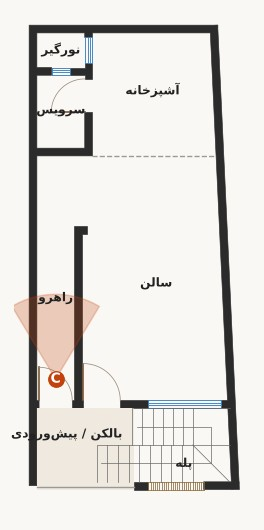
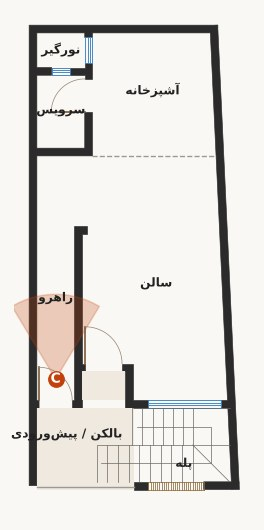
Karbala 5.70: living door in 1 m niche, black metal bar gate, warm cream stone
Claude-Session: https://claude.ai/code/session_0113K5N22RNaozfHWJmS9D7A

Changed region(s): [[0.3939, 0.6642, 0.5152, 0.7849], [0.303, 0.6038, 0.3333, 0.7849], [0.4242, 0.634, 0.4545, 0.6642]]

diff --git a/karbala-570/index.html b/karbala-570/index.html
@@ -182,42 +182,42 @@ fa:{dir:'rtl',name:'فارسی',brand:'ArchTverse · کربلا',title:'خانه
  nav:{facts:'در یک نگاه',plans:'پلانها',design:'زبان طراحی',views:'فضاهای داخلی',facade:'نما',model:'مدل سهبعدی'},
  facts_t:'پروژه در یک نگاه',facts:[['۵٫۷۰ × ۱۲٫۸۴','ابعاد زمین بیرونبهبیرون (متر)'],['۳ طبقه','همکف + طبقهٔ اول و دوم تیپ'],['۳۰۰ + ۲۰','کف تا زیر سقف + بتن سقف (سانتیمتر)'],['۲۱ سانت','ضخامت دیوارها (برداشت ۲۰ تا ۲۲)'],['۱ نما','فقط جبههٔ جلو؛ سمت چپ بدون همسایه'],['۱۷ پله','پلهٔ U شکل مرمر تا بام، با خرپشته']],
  plans_t:'پلانها',plans_s:'طبقه را انتخاب کنید و روی نقطههای دید بزنید.',pg:'همکف',p1:'طبقهٔ اول و دوم (تیپ)',
- pgL:['ورودی نیمهباز با درِ چوبی و دو درِ کنار هم: راهرو و سالن','پلهٔ مرمر کنار نما با میلههای برنزی یکسره تا بام','سرویس زیر پله','راهرو ۱۰۲ سانتی که در انتها به سالن میچرخد','آشپزخانه، سرویس ۱۳۰ × ۱۹۸ و نورگیر ۱۳۰ × ۹۴ در عقب'],
- p1L:['بالکن / پیشورودی نیمهباز ۲۶۴ × ۲۲۱ با نردهٔ شیشهای ۱۱۰','پنجرهٔ ۲ متری سالن رو به چاه پله','سالن با دیوار تلویزیون روی دیوار همسایه','آشپزخانهٔ L شکل با سرامیک تا سقف','درها ۲۸۰؛ پنجرههای داخلی از ۹۰ تا سقف'],
+ pgL:['ورودی نیمهباز با درِ فلزی مشکی نردهای؛ درِ راهرو و درِ سالن که ۱ متر عقبتر در یک تورفتگی است','پلهٔ مرمر کنار نما با میلههای برنزی یکسره تا بام','سرویس زیر پله','راهرو ۱۰۲ سانتی که در انتها به سالن میچرخد','آشپزخانه، سرویس ۱۳۰ × ۱۹۸ و نورگیر ۱۳۰ × ۹۴ در عقب'],
+ p1L:['بالکن / پیشورودی نیمهباز ۲۶۴ × ۲۲۱ با نردهٔ شیشهای ۱۱۰؛ درِ سالن ۱ متر عقبتر در تورفتگی','پنجرهٔ ۲ متری سالن رو به چاه پله','سالن با دیوار تلویزیون روی دیوار همسایه','آشپزخانهٔ L شکل با سرامیک تا سقف','درها ۲۸۰؛ پنجرههای داخلی از ۹۰ تا سقف'],
  legend:'نقطههای چشمکزن جای دید هر فضاست و مخروط، جهت نگاه را نشان میدهد؛ روی نقطه بزنید تا وارد همان زاویه شوید.',viewsOn:'فضاهای این طبقه:',
  design_t:'زبان طراحی: نئوکلاسیک گرم',design:[['فضاهای داخلی','دیوار سفید گرم و گریج، قاببندی ظریف فقط روی دیوارهای تأکیدی، کف سرامیک طرح مرمر ۶۰ × ۶۰'],['سقفها','سالن: سقف کاذب مستطیلی با گلویی و نور مخفی. آشپزخانه: سقف ساده با باکس جداکننده. سرویس: ۲۷۰'],['فضاهای نیمهباز','ورودی، پله و بالکن: سنگ، فلز برنزی تیره، سقف چوبی و نور توکار']],
  views_t:'فضاهای داخلی',views_s:'حرف هر فضا را بزنید یا تصویر را بکشید.',view:'دید',fl:{'1':'طبقهٔ اول','g':'همکف'},
- V:{A:['سالن','از آشپزخانه رو به جلو',['تلویزیون روی دیوار همسایه، بدون بازشو','پنجرهٔ ۲۰۰ سانتی رو به چاه پله','درِ ورودی ۱۰۰ × ۲۸۰ و دهانهٔ ۱۹۱ به راهرو']],B:['سالن و آشپزخانه','از ورودی رو به آشپزخانه',['آشپزخانه روی دیوار پشت و راست، سرامیک تا سقف','چپ: دهانهٔ راهرو، درِ سرویس، پنجرهٔ نورگیر','دیوار تلویزیون سمت راست']],C:['راهرو','۱۰۲ × ۶۸۵ سانت',['دو دیوار بسته با قاببندی یکسان','انتهای بسته؛ چرخش ۱۹۱ به سالن','نور مخفی دو طرف سقف']],D:['سرویس بهداشتی','۱۳۰ × ۱۹۸، سقف کاذب ۲۷۰',['سرامیک تا سقف با دیوار تأکیدی سنگی','پنجرهٔ ۵۰ × ۶۰ با کف ۱۹۵ رو به نورگیر','توالت والهنگ و روشویی گردو']],E:['بالکن / پیشورودی','نیمهباز، ۲۶۴ × ۲۲۱',['دو در: راهرو ۹۰ × ۲۸۰ و سالن ۱۰۰ × ۲۸۰','نردهٔ شیشهای ۱۱۰ رو به خیابان','دیوار سنگی، چراغ بیرونی، گیاه']],F:['پله و میلههای نما','فضای نیمهباز ورودی',['میلههای برنزی بدون شیشه، از ۲۴۰ تا بام','پلهٔ مرمر با دستانداز لولهای','سرویس زیر پله']],G:['ورودی','دو درِ کنار هم',['درِ راهرو و درِ سالن، گردو','پنجرهٔ ۱۲۰ رو به سالن زیر بازوی برگشت','دیوار سنگی، سرویس زیر پله']]},
+ V:{A:['سالن','از آشپزخانه رو به جلو',['تلویزیون روی دیوار همسایه، بدون بازشو','پنجرهٔ ۲۰۰ سانتی رو به چاه پله','درِ ورودی ۱۰۰ × ۲۸۰ و دهانهٔ ۱۹۱ به راهرو']],B:['سالن و آشپزخانه','از ورودی رو به آشپزخانه',['آشپزخانه روی دیوار پشت و راست، سرامیک تا سقف','چپ: دهانهٔ راهرو، درِ سرویس، پنجرهٔ نورگیر','دیوار تلویزیون سمت راست']],C:['راهرو','۱۰۲ × ۶۸۵ سانت',['دو دیوار بسته با قاببندی یکسان','انتهای بسته؛ چرخش ۱۹۱ به سالن','نور مخفی دو طرف سقف']],D:['سرویس بهداشتی','۱۳۰ × ۱۹۸، سقف کاذب ۲۷۰',['سرامیک تا سقف با دیوار تأکیدی سنگی','پنجرهٔ ۵۰ × ۶۰ با کف ۱۹۵ رو به نورگیر','توالت والهنگ و روشویی گردو']],E:['بالکن / پیشورودی','نیمهباز، ۲۶۴ × ۲۲۱',['دو در: راهرو ۹۰ × ۲۸۰ و سالن ۱۰۰ × ۲۸۰ در تورفتگی ۱ متری','نردهٔ شیشهای ۱۱۰ رو به خیابان','دیوار سنگی، چراغ بیرونی، گیاه']],F:['پله و میلههای نما','فضای نیمهباز ورودی',['میلههای برنزی بدون شیشه، از ۲۴۰ تا بام','پلهٔ مرمر با دستانداز لولهای','سرویس زیر پله']],G:['ورودی','دو درِ کنار هم',['درِ راهرو و درِ سالن، گردو','پنجرهٔ ۱۲۰ رو به سالن زیر بازوی برگشت','دیوار سنگی، سرویس زیر پله']]},
  facade_t:'نمای اصلی',facade_s:'همهٔ دهانهها و ابعاد از پلان؛ بین نقشه و سهرخ جابهجا شوید.',elev:'نقشهٔ نما',persp:'سهرخ',
- facade:['قاب سنگی بالکنها تا بالای خرپشته با شیار نوری فرورفته','میلههای برنزی جلوی پله، بدون شیشه، از ۲۴۰ تا بام و برگشت روی خرپشته','پنل بالا: سنگهای ۱۵ سانتی، یکی در میان جلو و عقب','قاب همکف برجسته، سنگ افقی با بند ۱ سانتی، درِ ورودی چوبی ۲۸۰','خرپشته ۲۷۰ و جانپناه ۱۵۰'],facade_n:'بیرونزدگی قابها و ضخامت سنگ در دست تأیید است.',
+ facade:['سنگ کرم گرم؛ قاب بالکنها تا بالای خرپشته با شیار نوری فرورفته','میلههای برنزی جلوی پله، بدون شیشه، از ۲۴۰ تا بام و برگشت روی خرپشته','پنل بالا: سنگهای ۱۵ سانتی، یکی در میان جلو و عقب','قاب همکف برجسته، سنگ افقی با بند ۱ سانتی، درِ ورودی فلزی مشکی نردهای ۲۸۰','خرپشته ۲۷۰ و جانپناه ۱۵۰'],facade_n:'بیرونزدگی قابها و ضخامت سنگ در دست تأیید است.',
  model_t:'مدل سهبعدی',model_s:'بچرخانید، زوم کنید، طبقهها را خاموش و روشن کنید؛ حالت «حجم + سایه» برای درک بهتر حجم.',load3d:'نمایش مدل سهبعدی',full:'تمامصفحه',
  set:'تنظیمات',lang:'زبان',theme:'رنگ صفحه',dark:'تیره',light:'روشن',size:'اندازهٔ متن',close:'بستن',zoomhint:'برای زوم دو بار بزنید',fitHint:'برای دیدن کل تصویر روی آن بزنید',foot:'طراحی: ArchTverse · ابعاد از برداشت کارگاه؛ ابعاد داخلی مبناست.'},
 ar:{dir:'rtl',name:'العربية',brand:'ArchTverse · كربلاء',title:'منزل ٥٫٧٠ × ١٢٫٨٤',sub:'المخططات والفراغات الداخلية والواجهة — أرضي وطابقان متكرران',start:'ابدأ العرض',see3d:'النموذج ثلاثي الأبعاد',
  nav:{facts:'لمحة',plans:'المخططات',design:'لغة التصميم',views:'الفراغات',facade:'الواجهة',model:'النموذج'},
  facts_t:'المشروع في لمحة',facts:[['٥٫٧٠ × ١٢٫٨٤','أبعاد الأرض من الخارج (متر)'],['٣ طوابق','أرضي + طابق أول وثانٍ متكرران'],['٣٠٠ + ٢٠','من الأرضية إلى السقف + سماكة السقف (سم)'],['٢١ سم','سماكة الجدران (قياس ٢٠–٢٢)'],['واجهة واحدة','الأمامية فقط؛ الجهة اليسرى بلا جار'],['١٧ درجة','درج رخامي على شكل U حتى السطح مع غرفة درج']],
  plans_t:'المخططات',plans_s:'اختر الطابق واضغط على نقاط اللقطات.',pg:'الطابق الأرضي',p1:'الطابق الأول والثاني (متكرر)',
- pgL:['مدخل شبه مفتوح ببوابة خشبية وبابين متجاورين: الممر والصالة','درج رخامي بجانب الواجهة مع قضبان برونزية حتى السطح','حمّام تحت الدرج','ممر بعرض ١٠٢ سم ينعطف في نهايته نحو الصالة','المطبخ والحمّام ١٣٠ × ١٩٨ والمنور ١٣٠ × ٩٤ في الخلف'],
- p1L:['شرفة / ما قبل المدخل ٢٦٤ × ٢٢١ بدرابزين زجاجي ١١٠','نافذة الصالة بعرض ٢ م على بئر الدرج','الصالة مع جدار التلفاز على الجدار المشترك','مطبخ على شكل L بسيراميك حتى السقف','الأبواب بارتفاع ٢٨٠؛ النوافذ الداخلية من ٩٠ حتى السقف'],
+ pgL:['مدخل شبه مفتوح ببوابة معدنية سوداء بقضبان أفقية؛ باب الممر وباب الصالة المرتد ١ م في تجويف','درج رخامي بجانب الواجهة مع قضبان برونزية حتى السطح','حمّام تحت الدرج','ممر بعرض ١٠٢ سم ينعطف في نهايته نحو الصالة','المطبخ والحمّام ١٣٠ × ١٩٨ والمنور ١٣٠ × ٩٤ في الخلف'],
+ p1L:['شرفة / ما قبل المدخل ٢٦٤ × ٢٢١ بدرابزين زجاجي ١١٠؛ باب الصالة مرتد ١ م','نافذة الصالة بعرض ٢ م على بئر الدرج','الصالة مع جدار التلفاز على الجدار المشترك','مطبخ على شكل L بسيراميك حتى السقف','الأبواب بارتفاع ٢٨٠؛ النوافذ الداخلية من ٩٠ حتى السقف'],
  legend:'النقاط الوامضة هي مواقع اللقطات والمخروط يبيّن اتجاه النظر؛ اضغط على النقطة للدخول إلى تلك الزاوية.',viewsOn:'فراغات هذا الطابق:',
  design_t:'لغة التصميم: نيوكلاسيك دافئ',design:[['الفراغات الداخلية','جدران أبيض دافئ ورمادي بيج، كرانيش رفيعة على الجدران المميزة فقط، أرضيات سيراميك بنقشة رخام ٦٠ × ٦٠'],['الأسقف','الصالة: سقف مستعار بكورنيش وإضاءة مخفية. المطبخ: سقف بسيط مع بوكس فاصل. الحمّام: ٢٧٠'],['الفراغات شبه المفتوحة','المدخل والدرج والشرفة: حجر، معدن برونزي داكن، سقف خشبي وإنارة مدمجة']],
  views_t:'الفراغات الداخلية',views_s:'اضغط على حرف الفراغ أو اسحب الصورة.',view:'اللقطة',fl:{'1':'الطابق الأول','g':'الطابق الأرضي'},
- V:{A:['الصالة','من المطبخ باتجاه الأمام',['التلفاز على الجدار المشترك بلا فتحات','نافذة بعرض ٢٠٠ سم على بئر الدرج','باب المدخل ١٠٠ × ٢٨٠ وفتحة ١٩١ إلى الممر']],B:['الصالة والمطبخ','من المدخل باتجاه المطبخ',['المطبخ على الجدارين الخلفي والأيمن','يسارًا: فتحة الممر، باب الحمّام، نافذة المنور','جدار التلفاز على اليمين']],C:['الممر','١٠٢ × ٦٨٥ سم',['جداران مغلقان بكرانيش متطابقة','نهاية مغلقة؛ انعطاف ١٩١ نحو الصالة','إضاءة مخفية على جانبي السقف']],D:['الحمّام','١٣٠ × ١٩٨، سقف مستعار ٢٧٠',['سيراميك حتى السقف مع جدار حجري مميز','نافذة ٥٠ × ٦٠ بارتفاع جلسة ١٩٥','مرحاض معلق ومغسلة من خشب الجوز']],E:['الشرفة / ما قبل المدخل','شبه مفتوحة، ٢٦٤ × ٢٢١',['بابان: الممر ٩٠ × ٢٨٠ والصالة ١٠٠ × ٢٨٠','درابزين زجاجي ١١٠ باتجاه الشارع','جدار حجري، إنارة خارجية، نباتات']],F:['الدرج وقضبان الواجهة','فراغ المدخل شبه المفتوح',['قضبان برونزية بلا زجاج من ٢٤٠ حتى السطح','درج رخامي بدرابزين أنبوبي','حمّام تحت الدرج']],G:['المدخل','بابان متجاوران',['باب الممر وباب الصالة، خشب الجوز','نافذة ١٢٠ على الصالة','جدار حجري، حمّام تحت الدرج']]},
+ V:{A:['الصالة','من المطبخ باتجاه الأمام',['التلفاز على الجدار المشترك بلا فتحات','نافذة بعرض ٢٠٠ سم على بئر الدرج','باب المدخل ١٠٠ × ٢٨٠ وفتحة ١٩١ إلى الممر']],B:['الصالة والمطبخ','من المدخل باتجاه المطبخ',['المطبخ على الجدارين الخلفي والأيمن','يسارًا: فتحة الممر، باب الحمّام، نافذة المنور','جدار التلفاز على اليمين']],C:['الممر','١٠٢ × ٦٨٥ سم',['جداران مغلقان بكرانيش متطابقة','نهاية مغلقة؛ انعطاف ١٩١ نحو الصالة','إضاءة مخفية على جانبي السقف']],D:['الحمّام','١٣٠ × ١٩٨، سقف مستعار ٢٧٠',['سيراميك حتى السقف مع جدار حجري مميز','نافذة ٥٠ × ٦٠ بارتفاع جلسة ١٩٥','مرحاض معلق ومغسلة من خشب الجوز']],E:['الشرفة / ما قبل المدخل','شبه مفتوحة، ٢٦٤ × ٢٢١',['بابان: الممر ٩٠ × ٢٨٠ والصالة ١٠٠ × ٢٨٠ في تجويف ١ م','درابزين زجاجي ١١٠ باتجاه الشارع','جدار حجري، إنارة خارجية، نباتات']],F:['الدرج وقضبان الواجهة','فراغ المدخل شبه المفتوح',['قضبان برونزية بلا زجاج من ٢٤٠ حتى السطح','درج رخامي بدرابزين أنبوبي','حمّام تحت الدرج']],G:['المدخل','بابان متجاوران',['باب الممر وباب الصالة، خشب الجوز','نافذة ١٢٠ على الصالة','جدار حجري، حمّام تحت الدرج']]},
  facade_t:'الواجهة الرئيسية',facade_s:'جميع الفتحات والأبعاد من المخطط؛ بدّل بين المسقط والمنظور.',elev:'مسقط الواجهة',persp:'منظور',
- facade:['إطار رخامي للشرفات حتى أعلى غرفة الدرج مع شق إضاءة غائر','قضبان برونزية أمام الدرج بلا زجاج من ٢٤٠ حتى السطح','اللوح العلوي: شرائح رخام ١٥ سم بارزة وغائرة بالتناوب','إطار بارز للطابق الأرضي، رخام أفقي بفواصل ١ سم، بوابة خشبية ٢٨٠','غرفة الدرج ٢٧٠ والستارة ١٥٠'],facade_n:'بروز الإطارات وسماكة الرخام قيد التأكيد.',
+ facade:['حجر كريمي دافئ؛ إطار الشرفات حتى أعلى غرفة الدرج مع شق إضاءة غائر','قضبان برونزية أمام الدرج بلا زجاج من ٢٤٠ حتى السطح','اللوح العلوي: شرائح رخام ١٥ سم بارزة وغائرة بالتناوب','إطار بارز للطابق الأرضي، رخام أفقي بفواصل ١ سم، بوابة معدنية سوداء ٢٨٠','غرفة الدرج ٢٧٠ والستارة ١٥٠'],facade_n:'بروز الإطارات وسماكة الرخام قيد التأكيد.',
  model_t:'النموذج ثلاثي الأبعاد',model_s:'دوّر، كبّر، أظهر وأخفِ الطوابق؛ وضع «كتلة + ظلال» لفهم الكتلة بشكل أفضل.',load3d:'عرض النموذج ثلاثي الأبعاد',full:'ملء الشاشة',
  set:'الإعدادات',lang:'اللغة',theme:'لون الصفحة',dark:'داكن',light:'فاتح',size:'حجم النص',close:'إغلاق',zoomhint:'اضغط مرتين للتكبير',fitHint:'اضغط على الصورة لعرضها كاملة',foot:'تصميم: ArchTverse · الأبعاد من الرفع الميداني؛ الأبعاد الداخلية هي المرجع.'},
 en:{dir:'ltr',name:'English',brand:'ArchTverse · Karbala',title:'House 5.70 × 12.84',sub:'Plans, interiors and facade — ground floor + two typical floors',start:'Start',see3d:'3D model',
  nav:{facts:'Overview',plans:'Plans',design:'Design',views:'Interiors',facade:'Facade',model:'3D'},
  facts_t:'Project at a glance',facts:[['5.70 × 12.84','Plot, outside to outside (m)'],['3 floors','Ground + typical first and second'],['300 + 20','Floor to ceiling + slab (cm)'],['21 cm','Wall thickness (measured 20–22)'],['1 facade','Front only; left side has no neighbour'],['17 steps','Marble U-stair to the roof, with stair-head']],
  plans_t:'Plans',plans_s:'Pick a floor and tap the view points.',pg:'Ground floor',p1:'First & second floor (typical)',
- pgL:['Semi-open entrance: wooden gate and two side-by-side doors (corridor, living)','Marble stair along the facade with bronze bars up to the roof','WC under the stair','102 cm corridor turning into the living room at its end','Kitchen, WC 130 × 198 and light well 130 × 94 at the back'],
- p1L:['Balcony / pre-entry 264 × 221, 110 glass railing','2 m living-room window onto the stairwell','Living room with the TV on the party wall','L-shaped kitchen, ceramic to the ceiling','Doors 280 high; interior windows from 90 to the ceiling'],
+ pgL:['Semi-open entrance: black metal bar gate; corridor door and living door set 1 m back in a niche','Marble stair along the facade with bronze bars up to the roof','WC under the stair','102 cm corridor turning into the living room at its end','Kitchen, WC 130 × 198 and light well 130 × 94 at the back'],
+ p1L:['Balcony / pre-entry 264 × 221, 110 glass railing; living door set 1 m back','2 m living-room window onto the stairwell','Living room with the TV on the party wall','L-shaped kitchen, ceramic to the ceiling','Doors 280 high; interior windows from 90 to the ceiling'],
  legend:'Blinking points mark each view and the cone shows where it looks; tap a point to step into that view.',viewsOn:'Spaces on this floor:',
  design_t:'Design language: warm neoclassical',design:[['Interiors','Warm white and greige walls, slim mouldings on feature walls only, 60 × 60 marble-look porcelain floors'],['Ceilings','Living: tray ceiling with cornice and hidden light. Kitchen: simple ceiling with a bulkhead. WC: 270'],['Semi-open spaces','Entrance, stair and balcony: stone, dark-bronze metal, wood soffits with recessed lights']],
  views_t:'Interiors',views_s:'Tap a letter or swipe the image.',view:'View',fl:{'1':'First floor','g':'Ground floor'},
- V:{A:['Living room','From the kitchen toward the front',['TV on the party wall, no openings','200 cm window onto the stairwell','Entrance door 100 × 280, 191 opening to the corridor']],B:['Living & kitchen','From the entrance toward the kitchen',['Kitchen on the back and right walls','Left: corridor opening, WC door, light-well window','TV wall on the right']],C:['Corridor','102 × 685 cm',['Two closed walls with matching mouldings','Closed end; 191 turn into the living room','Hidden cove light along both ceiling edges']],D:['WC','130 × 198, false ceiling 270',['Ceramic to the ceiling with a stone accent wall','50 × 60 window, sill 195, onto the light well','Wall-hung WC and walnut vanity']],E:['Balcony / pre-entry','Semi-open, 264 × 221',['Two doors: corridor 90 × 280, living 100 × 280','110 cm glass railing to the street','Stone wall, outdoor lantern, planting']],F:['Stair & facade bars','Semi-open entrance space',['Bronze bars, no glass, from 240 up to the roof','Marble stair with a tubular handrail','WC under the stair']],G:['Entrance','Two side-by-side doors',['Corridor and living doors in walnut','120 window to the living room','Stone walls, WC under the stair']]},
+ V:{A:['Living room','From the kitchen toward the front',['TV on the party wall, no openings','200 cm window onto the stairwell','Entrance door 100 × 280, 191 opening to the corridor']],B:['Living & kitchen','From the entrance toward the kitchen',['Kitchen on the back and right walls','Left: corridor opening, WC door, light-well window','TV wall on the right']],C:['Corridor','102 × 685 cm',['Two closed walls with matching mouldings','Closed end; 191 turn into the living room','Hidden cove light along both ceiling edges']],D:['WC','130 × 198, false ceiling 270',['Ceramic to the ceiling with a stone accent wall','50 × 60 window, sill 195, onto the light well','Wall-hung WC and walnut vanity']],E:['Balcony / pre-entry','Semi-open, 264 × 221',['Two doors: corridor 90 × 280, living 100 × 280 in a 1 m niche','110 cm glass railing to the street','Stone wall, outdoor lantern, planting']],F:['Stair & facade bars','Semi-open entrance space',['Bronze bars, no glass, from 240 up to the roof','Marble stair with a tubular handrail','WC under the stair']],G:['Entrance','Two side-by-side doors',['Corridor and living doors in walnut','120 window to the living room','Stone walls, WC under the stair']]},
  facade_t:'Main facade',facade_s:'All openings and dimensions from the plan; switch between elevation and 3/4 view.',elev:'Elevation',persp:'3/4 view',
- facade:['Marble balcony frame up to the stair-head, with a recessed LED groove','Bronze bars in front of the stair, no glass, from 240 to the roof','Upper panel: 15 cm marble strips, alternately set in and out','Projecting ground-floor frame, horizontal marble with 1 cm joints, 280 wooden gate','Stair-head 270, parapet 150'],facade_n:'Frame projection and stone thickness to be confirmed.',
+ facade:['Warm cream stone; balcony frame up to the stair-head with a recessed LED groove','Bronze bars in front of the stair, no glass, from 240 to the roof','Upper panel: 15 cm marble strips, alternately set in and out','Projecting ground-floor frame, horizontal stone with 1 cm joints, 280 black metal bar gate','Stair-head 270, parapet 150'],facade_n:'Frame projection and stone thickness to be confirmed.',
  model_t:'3D model',model_s:'Orbit, zoom, switch floors on and off; use “Volume + shadow” to read the massing.',load3d:'Show the 3D model',full:'Full screen',
  set:'Settings',lang:'Language',theme:'Theme',dark:'Dark',light:'Light',size:'Text size',close:'Close',zoomhint:'Double-tap to zoom',fitHint:'Tap the image to see it whole',foot:'Design: ArchTverse · Dimensions from the site survey; internal dimensions govern.'}};
 
@@ -260,7 +260,7 @@ function render(){
   <section id="model"><div class="wrap"><h2>${t.model_t}</h2><p class="sub">${t.model_s}</p>
     <div class="frame3d" id="f3d" style="background-image:url(${IMG}model3d.jpg)"><div class="start"><button class="btn" id="go3d">${t.load3d}</button></div></div>
     <div class="cta" style="margin-top:12px"><a class="btn ghost" href="model3d.html?lang=${L}">${t.full} ⤢</a></div></div></section>
-  <footer><div class="wrap">${t.foot} · v5</div></footer>`;
+  <footer><div class="wrap">${t.foot} · v6</div></footer>`;
   $('#sheet').innerHTML=`<div style="display:flex;justify-content:space-between;align-items:center;margin-bottom:6px"><b>${t.set}</b><button class="ib" data-close>${t.close}</button></div>
     <div class="srow"><span>${t.lang}</span><div class="seg">${Object.keys(TX).map(k=>`<button data-setlang="${k}" class="${k===L?'on':''}">${TX[k].name}</button>`).join('')}</div></div>
     <div class="srow"><span>${t.theme}</span><div class="seg"><button data-theme="dark" class="${theme==='dark'?'on':''}">${t.dark}</button><button data-theme="light" class="${theme==='light'?'on':''}">${t.light}</button></div></div>

diff --git a/karbala-570/model3d.html b/karbala-570/model3d.html
@@ -92,7 +92,7 @@ const ground=new THREE.Mesh(new THREE.PlaneGeometry(60,60),new THREE.MeshStandar
 ground.rotation.x=-Math.PI/2; ground.receiveShadow=true; scene.add(ground);
 
 const groups={}; const meshes=[]; const edgeLines=[]; let box, size, center;
-const CLAY={wall:0xf0ede8,slab:0xe6e2db,floor:0xe9e5de,marble:0xfbfaf7,walnut:0x8d7a68,oak:0xb3a089,arch:0x8d7a68,wood:0xb39a7e,rail:0x4a443c,cnc:0x5c5046,led:0xffd38a,glass:0xbcd6dc};
+const CLAY={gatemetal:0x1a1a1a,wall:0xf0ede8,slab:0xe6e2db,floor:0xe9e5de,marble:0xf3e9d6,walnut:0x8d7a68,oak:0xb3a089,arch:0x8d7a68,wood:0xb39a7e,rail:0x4a443c,cnc:0x5c5046,led:0xffd38a,glass:0xbcd6dc};
 const kindOf=n=>n.split('_').slice(1).join('_');
 const edgeMat=new THREE.LineBasicMaterial({color:0x1f1b17,transparent:true,opacity:.55});
 
